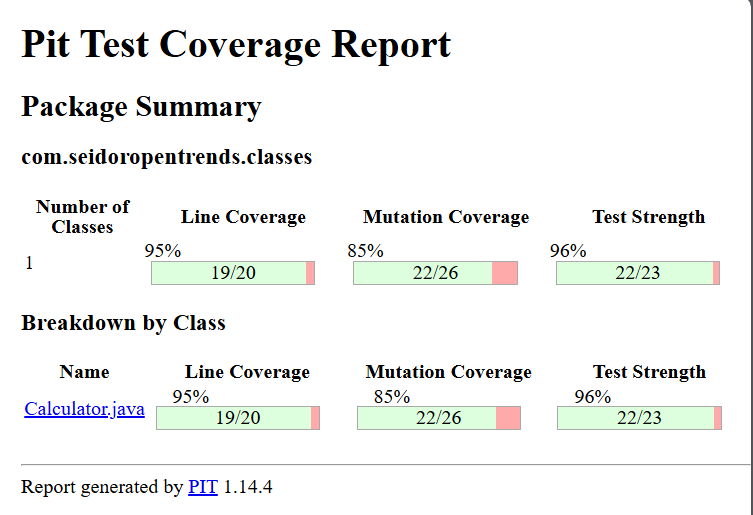
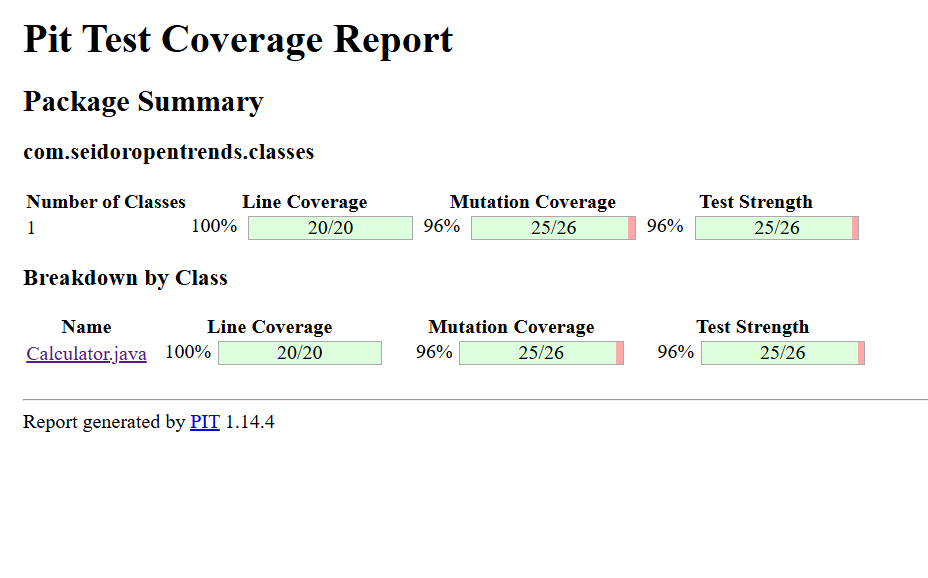
Test+JaCoCo100%+Pit+Readme

diff --git a/src/test/java/mutationTest/CalculatorOperationTest.java b/src/test/java/mutationTest/CalculatorOperationTest.java
@@ -1,66 +1,64 @@
 package mutationTest;
 
-import org.junit.Before;
-import org.junit.Test;
-
+import org.junit.*;
 import static org.junit.Assert.*;
-
 import com.seidoropentrends.classes.Calculator;
 
-/**
- * Tests de Calculator (JUnit 4) siguiendo AAA, límites y excepciones.
- * Ajusta los asserts si tu contrato/métodos difieren (int/double).
- */
 public class CalculatorOperationTest {
 
+    // --- ciclo de vida a nivel de clase (una sola vez) ---
+    private static long t0;
+
+    @BeforeClass
+    public static void initOnce() {
+        t0 = System.currentTimeMillis();
+        // Aquí iniciarías recursos “caros” si existieran
+    }
+
+    @AfterClass
+    public static void cleanupOnce() {
+        long ms = System.currentTimeMillis() - t0;
+        System.out.println("Duración CalculatorOperationTest = " + ms + " ms");
+    }
+
+    // --- ciclo de vida a nivel de test (cada test) ---
     private Calculator calc;
 
     @Before
-    public void setUp() {
-        calc = new Calculator();
-    }
+    public void setUp() { calc = new Calculator(); }
+
+    @After
+    public void tearDown() { calc = null; }
 
     // -------- SUMA --------
-    @Test
-    public void suma_basico() {
-        int r = calc.suma(2, 3);
-        assertEquals(5, r);
-    }
-
-    @Test
-    public void suma_conNegativos() {
-        assertEquals(3, calc.suma(-2, 5));
+    @Test public void suma_basicos() {
+        assertEquals(5,  calc.suma(2, 3));
+        assertEquals(0,  calc.suma(-2, 2));
         assertEquals(-1, calc.suma(-3, 2));
-        assertEquals(0, calc.suma(0, 0));
     }
 
     // -------- RESTA --------
-    @Test
-    public void resta_basico() {
-        assertEquals(6, calc.resta(10, 4));
-    }
-
-    @Test
-    public void resta_conNegativos() {
-        assertEquals(3, calc.resta(-2, -5)); // -2 - (-5) = 3
+    @Test public void resta_casos() {
+        assertEquals(6,  calc.resta(10, 4));
+        assertEquals(3,  calc.resta(-2, -5));
         assertEquals(-7, calc.resta(-3, 4));
-        assertEquals(0, calc.resta(0, 0));
     }
 
     // -------- MULTIPLICA --------
-    @Test
-    public void multiplica_casos() {
-        assertEquals(0, calc.multiplica(7, 0));
+    @Test public void multiplica_casos() {
+        assertEquals(0,   calc.multiplica(7, 0));
         assertEquals(-12, calc.multiplica(-3, 4));
-        assertEquals(21, calc.multiplica(7, 3));
+        assertEquals(21,  calc.multiplica(7, 3));
     }
 
     // -------- DIVIDEIX --------
-    @Test
-    public void divideix_truncada_siEsEntera() {
-        // Si divideix devuelve int, se espera truncado: 7/2 = 3
-        // Si devuelve double, cambia a assertEquals(3.5, calc.divideix(7,2), 1e-9)
-        assertEquals(3, calc.divideix(7, 2));
+    @Test public void divideix_truncada_y_signos() {
+        // Si divideix devuelve double, cambia a: assertEquals(3.5, calc.divideix(7,2), 1e-9);
+        assertEquals(3,  calc.divideix(7, 2));
+        assertEquals(-3, calc.divideix(-7, 2));
+        assertEquals(-3, calc.divideix(7, -2));
+        assertEquals(3,  calc.divideix(-7, -2));
+        assertEquals(0,  calc.divideix(0, 5));
     }
 
     @Test(expected = IllegalArgumentException.class)
@@ -69,37 +67,38 @@ public class CalculatorOperationTest {
     }
 
     // -------- POTENCIA --------
-    @Test
-    public void potencia_casosBasicos() {
-        assertEquals(8, calc.potencia(2, 3));   // 2^3
-        assertEquals(1, calc.potencia(5, 0));   // cualquier base ^0 = 1
-        assertEquals(1, calc.potencia(0, 0));   // según especificación de la práctica
+    @Test(timeout = 100)
+    public void potencia_casos() {
+        assertEquals(8, calc.potencia(2, 3));
+        assertEquals(1, calc.potencia(5, 0));
+        assertEquals(1, calc.potencia(0, 0));  // según la práctica
     }
 
     @Test(expected = IllegalArgumentException.class)
-    public void potencia_exponenteNegativo_lanzaExcepcion() {
+    public void potencia_exponenteNegativo_excepcion() {
         calc.potencia(2, -1);
     }
 
     // -------- ARREL QUADRADA --------
-    @Test
-    public void arrelQuadrada_basico() {
-        // Si devuelve double, usa delta
+    @Test public void arrelQuadrada_ok() {
         assertEquals(3.0, calc.arrelQuadrada(9.0), 1e-3);
     }
 
     @Test(expected = IllegalArgumentException.class)
-    public void arrelQuadrada_negativo_lanzaExcepcion() {
+    public void arrelQuadrada_negativo_excepcion() {
         calc.arrelQuadrada(-4.0);
     }
 
     // -------- ES POSITIU --------
-    @Test
-    public void esPositiu_casos() {
-        assertTrue(calc.esPositiu(4));
-        assertFalse(calc.esPositiu(-2));
-        // Contrato para 0: en este proyecto consideramos que 0 NO es positivo.
-        // Si tu implementación devuelve true para 0, cambia el assert siguiente.
-        assertFalse(calc.esPositiu(0));
+    @Test public void esPositiu_bordes() {
+        assertTrue(calc.esPositiu(1));
+        assertFalse(calc.esPositiu(-1));
+        assertFalse(calc.esPositiu(0)); // ajusta si tu contrato dice lo contrario
+    }
+
+    // (Opcional) ejemplo de test desactivado
+    @Ignore("Ejemplo: pendiente de decidir contrato para esPositiu(0)")
+    @Test public void test_temporalmente_desactivado() {
+        // no se ejecuta
     }
 }

diff --git a/src/test/java/mutationTest/CalculatorEdgeCasesTest.java b/src/test/java/mutationTest/CalculatorEdgeCasesTest.java
@@ -1,0 +1,33 @@
+package mutationTest;
+
+import org.junit.Test;
+import static org.junit.Assert.*;
+import com.seidoropentrends.classes.Calculator;
+
+public class CalculatorEdgeCasesTest {
+
+    // --- MAXIM: igualdad y cuando b > a
+    @Test public void maxim_igualdad_devuelvePrimero() {
+        Calculator c = new Calculator();
+        assertEquals(5, c.maxim(5, 5)); // mata mutadores de >= -> >
+    }
+
+    @Test public void maxim_bMayor_devuelveB() {
+        Calculator c = new Calculator();
+        assertEquals(9, c.maxim(3, 9)); // mata mutadores de >= -> <=
+    }
+
+    // --- ARREL QUADRADA: caso x=0 (debe NO lanzar y devolver 0.0)
+    @Test public void arrelQuadrada_cero() {
+        Calculator c = new Calculator();
+        assertEquals(0.0, c.arrelQuadrada(0.0), 1e-12); // mata < -> <=
+    }
+
+    // --- POTENCIA: exponente 1 (mata i<exp -> i<=exp)
+    @Test public void potencia_exponenteUno_devuelveBase() {
+        Calculator c = new Calculator();
+        assertEquals(7, c.potencia(7, 1)); // si el mutante multiplica una vez de más, aquí fallaría
+    }
+
+
+}
